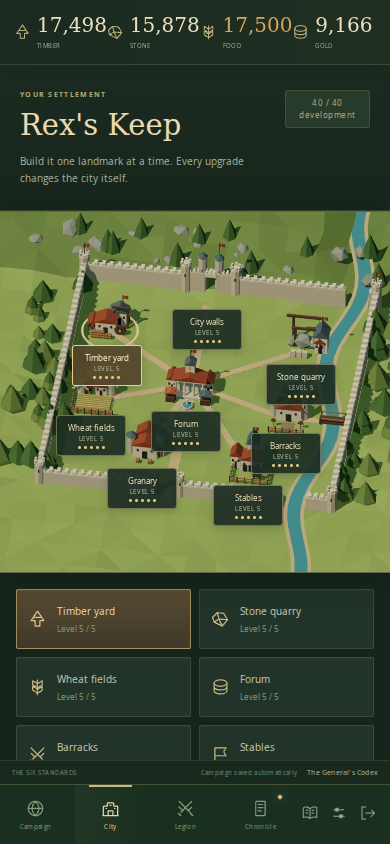
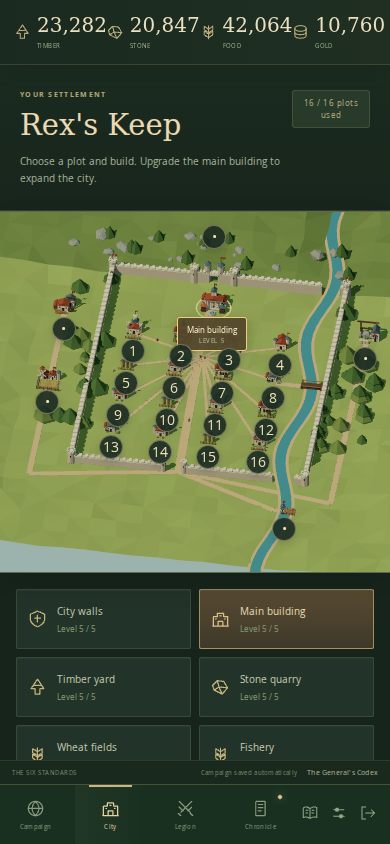
123

diff --git a/tests/city-slots.test.ts b/tests/city-slots.test.ts
@@ -12,4 +12,22 @@ test('plots start empty, duplicates finish independently, and locked plots rejec
 test('fishery is restricted to the river and production changes only at completion',()=>{const f=fixture();assert.throws(()=>queueSlot(f.context,{type:'buildSlot',slot:0,item:'fishery'}),/riverside/);queueSlot(f.context,{type:'buildSlot',slot:16,item:'fishery'});assert.equal(f.world.settlements[0].food_rate,18);finish(f);assert.equal(f.world.settlements[0].food_rate,26);queueSlot(f.context,{type:'upgradeSlot',slot:16});finish(f);assert.equal(f.world.city_slots![0].level,2);assert.equal(f.world.settlements[0].food_rate,34);});
 test('warehouses and granaries stack separately, smithy cap applies, and saves round-trip',()=>{const f=fixture();f.world.city_slots=[{settlement_id:1,slot_index:0,building_type:'warehouse',level:2},{settlement_id:1,slot_index:1,building_type:'warehouse',level:1},{settlement_id:1,slot_index:2,building_type:'granary',level:4},{settlement_id:1,slot_index:3,building_type:'smithy',level:5},{settlement_id:1,slot_index:4,building_type:'smithy',level:5},{settlement_id:1,slot_index:5,building_type:'smithy',level:5}];refreshCityEconomy(f.world,1);assert.equal(f.world.settlements[0].capacity,12500);assert.equal(f.world.settlements[0].food_capacity,15000);assert.equal(armyAttack(f.world,1),1.6);assert.deepEqual(validateSave(f.world),f.world);const broken=structuredClone(f.world);broken.city_slots!.push({...broken.city_slots![0]});assert.throws(()=>validateSave(broken));});
 test('legacy buildings and combined storage survive migration',()=>{const f=fixture();delete f.world.city_slots;f.world.buildings.find(b=>b.building_type==='barracks')!.level=2;f.world.buildings.find(b=>b.building_type==='storehouse')!.level=3;const saved=validateSave(f.world);assert.deepEqual(saved.city_slots!.map(s=>[s.building_type,s.level]),[['barracks',2],['warehouse',3],['granary',3]]);assert.equal(saved.settlements[0].capacity,12500);assert.equal(saved.settlements[0].food_capacity,12500);});
-test('resource sites stay beyond the growing perimeter and fishing has one dedicated river site',async()=>{const {cityLayout}=await import('../src/features/city/rendering/three/layout');for(const level of [0,1,5]){const growth=1+level*.1,plots=cityLayout({market:level},[]);for(const key of ['lumber','quarry','farm','fishery']){const p=plots.find(p=>p.key===key)!;assert.ok(p.x<-8.8*growth||p.x>10.6*growth||p.z>11*growth);}assert.equal(plots.filter(p=>p.key==='fishery').length,1);assert.equal(plots.find(p=>p.key==='fishery')!.x,8.8*growth);}});
+test('growing walls leave clear space around every plot and keep resources outside',async()=>{
+ const {cityLayout,cityFootprint,riverX}=await import('../src/features/city/rendering/three/layout');
+ const {createSlotModel}=await import('../src/features/city/rendering/three/slotModels');
+ const {disposeCityObject}=await import('../src/features/city/rendering/three/modelKit');
+ const {Box3}=await import('three');
+ let previousArea=0;
+ for(let level=0;level<=5;level++){
+  const growth=1+level*.1,footprint=cityFootprint(level),plots=cityLayout({market:level},[]);
+  const area=(footprint.right-footprint.left)*(footprint.front-footprint.back)*growth*growth;assert.ok(area>previousArea);previousArea=area;
+  for(const key of ['lumber','quarry','farm','fishery']){const p=plots.find(p=>p.key===key)!;assert.ok(p.x<footprint.left*growth||p.x>footprint.right*growth||p.z>footprint.front*growth);}
+  assert.equal(plots.find(p=>p.key==='fishery')!.x,riverX(footprint.fishingZ)*growth);
+  for(const plot of plots.filter(p=>p.slot!==undefined&&p.slot<16))for(const type of ['barracks','stables','smithy','warehouse','granary'] as const){
+   const model=createSlotModel(type,5);model.scale.setScalar(.78);model.position.set(plot.x,0,plot.z);const bounds=new Box3().setFromObject(model);
+   assert.ok(bounds.min.x>footprint.left*growth+.6&&bounds.max.x<footprint.right*growth-.6,`${type} at plot ${plot.slot} touches side wall`);
+   assert.ok(bounds.min.z>footprint.back*growth+.6&&bounds.max.z<footprint.front*growth-1.5,`${type} at plot ${plot.slot} touches front wall`);
+   disposeCityObject(model);
+  }
+ }
+});

diff --git a/src/features/city/rendering/three/CityScene.ts b/src/features/city/rendering/three/CityScene.ts
@@ -1,6 +1,6 @@
 import * as THREE from 'three';
 import { type BuildingType } from '../../domain/types';
-import { cityLayout, type CityPlot } from './layout';
+import { cityLayout, cityFootprint, type CityPlot } from './layout';
 import { cityGrowth, type CitySlot, type SlotType } from '../../domain/slots';
 import { createSlotModel } from './slotModels';
 import { createVillagers } from './villagers';
@@ -28,6 +28,7 @@ export class CityScene {
     private selected: string | null = null;
     private plots: CityPlot[] = [];
     private growth = 1;
+    private mainLevel = 0;
     private landscape = createCityLandscape();
     private villagers = createVillagers();
     private lastFrame = 0;
@@ -66,16 +67,19 @@ export class CityScene {
         this.layoutSignature=signature;
         this.plots = cityLayout(levels, slots);
         const growth = cityGrowth(levels.market ?? 0), resized = growth !== this.growth;
-        this.growth = growth; this.landscape.scale.set(growth, 1, growth);
+        this.mainLevel=levels.market??0;
+        this.growth = growth;
+        if(resized) {this.scene.remove(this.landscape);disposeCityObject(this.landscape);this.landscape=createCityLandscape(this.mainLevel);this.scene.add(this.landscape);}
+        this.landscape.scale.set(growth, 1, growth);
         for (const hit of this.pickMeshes) { this.scene.remove(hit); disposeCityObject(hit); }
         this.pickMeshes.length = 0;
         for (const plot of this.plots) {
             const hit = new THREE.Mesh(new THREE.CylinderGeometry(plot.radius, plot.radius, .15, 12), new THREE.MeshBasicMaterial({visible:false}));
             hit.position.set(plot.x,.12,plot.z); hit.userData.building=plot.key; this.pickMeshes.push(hit); this.scene.add(hit);
             const level=visualLevel(plot.level), previous=this.models.get(plot.key);
-            if (!previous || previous.level!==level || previous.type!==plot.type) {
+            if (!previous || previous.level!==level || previous.type!==plot.type || plot.type==='wall' && resized) {
                 if(previous) {this.scene.remove(previous.model);disposeCityObject(previous.model);}
-                const model=plot.slot!==undefined ? createSlotModel(plot.type as SlotType|null,level) : plot.type==='wall' ? createCityWalls(level) : createBuildingModel(plot.type as BuildingType,level);
+                const model=plot.slot!==undefined ? createSlotModel(plot.type as SlotType|null,level) : plot.type==='wall' ? createCityWalls(level,this.mainLevel) : createBuildingModel(plot.type as BuildingType,level);
                 this.scene.add(model); this.models.set(plot.key,{level,type:plot.type,model});
             }
             const model=this.models.get(plot.key)!.model;
@@ -83,7 +87,7 @@ export class CityScene {
             if(plot.type==='wall') model.scale.set(growth,1,growth);
             else if(plot.slot!==undefined) model.scale.setScalar(.78);
         }
-        this.villagers.setPlots(this.plots,growth); this.villagers.animate(performance.now());
+        this.villagers.setPlots(this.plots,growth,this.mainLevel); this.villagers.animate(performance.now());
         this.selected=selected;
         const plot=this.plots.find(p=>p.key===selected);
         this.ring.visible=!!plot;
@@ -95,6 +99,8 @@ export class CityScene {
         const rect = this.canvas.parentElement!.getBoundingClientRect(); this.width = Math.max(1, rect.width); this.height = Math.max(1, rect.height);
         this.renderer.setSize(this.width, this.height, false);
         // Frame the tallest level-five gate as well as the foreground nameplates.
+        const footprint=cityFootprint(this.mainLevel),centerZ=(footprint.back+footprint.fishingZ)*this.growth/2;
+        this.camera.position.set(3.6,22,25+centerZ-.8);this.camera.lookAt(0,0,centerZ);
         const aspect = this.width / this.height, halfHeight = Math.max(12.2, 16 / aspect) * this.growth;
         this.camera.left = -halfHeight * aspect; this.camera.right = halfHeight * aspect;
         this.camera.top = halfHeight; this.camera.bottom = -halfHeight; this.camera.updateProjectionMatrix(); this.render();

diff --git a/src/features/city/rendering/three/landscape.ts b/src/features/city/rendering/three/landscape.ts
@@ -1,18 +1,20 @@
 import * as THREE from 'three';
 import { cityKit } from './modelKit';
-import { CITY_PLOTS } from './layout';
+import { CITY_PLOTS, cityFootprint, cityLayout, riverX } from './layout';
+import { cityGrowth } from '../../domain/slots';
 
 const random = (n: number) => { const value = Math.sin(n * 127.1 + 19.7) * 43758.5453; return value - Math.floor(value); };
-const streamX = (z: number) => 8.8 + Math.sin(z * .44) * .7;
+const streamX = riverX;
 
 /** A small, fixed settlement landscape, independent of the campaign simulation. */
-export function createCityLandscape() {
+export function createCityLandscape(mainLevel = 0) {
+    const footprint=cityFootprint(mainLevel),growth=cityGrowth(mainLevel);
     const group = new THREE.Group(), k = cityKit();
     const { m, box, cylinder, cone, rock } = k;
     const points: number[] = [], colors: number[] = [];
     const grid = (x: number, z: number): [number, number, number] => {
         const px = -24 + x * 2, pz = -23 + z * 2;
-        const town = px > -15 && px < 16 && pz > -9 && pz < 16;
+        const town = px > -15 && px < 16 && pz > -9 && pz < footprint.fishingZ+1;
         const streamBank = Math.abs(px - streamX(pz)) < 2;
         const hill = Math.max(0, -pz - 8) * .13 + Math.max(0, Math.abs(px) - 10) * .07;
         return [px + (random(x * 23 + z * 71) - .5) * .45, town || streamBank ? -.035 : hill + random(x * 83 + z) * .32 - .08, pz];
@@ -34,10 +36,14 @@ export function createCityLandscape() {
     const road = (x1: number, z1: number, x2: number, z2: number, width = .48) => {
         box(Math.hypot(x2 - x1, z2 - z1), .018, width, (x1 + x2) / 2, -.006, (z1 + z2) / 2, m.road, -Math.atan2(z2 - z1, x2 - x1));
     };
-    road(.1,11,6.7,14);road(6.7,14,8.8,14);
-    for(let index=0;index<16;index++) road(0,.1,[-6,-2,2,6.2][index%4],-2+Math.floor(index/4)*4,.26);
-    for (const plot of CITY_PLOTS) { if(Math.abs(plot.x)>11) { road(0,.1,.1,11);road(.1,11,plot.x,13);road(plot.x,13,plot.x,plot.z); } else road(-.3,.1,plot.x,plot.z); }
-    road(-.3, .1, -.3, 12, .7); road(-.4, -6.8, -.4, -12, .65);
+    const front=footprint.front,outside=footprint.outsideRoad,fishingX=streamX(footprint.fishingZ);
+    road(.1,front,fishingX-1,footprint.fishingZ);road(fishingX-1,footprint.fishingZ,fishingX,footprint.fishingZ);
+    for(const plot of cityLayout({market:mainLevel},[]).filter(p=>p.slot!==undefined&&p.slot<16)) road(0,.1,plot.x/growth,plot.z/growth,.26);
+    for (const plot of CITY_PLOTS) {
+        if(Math.abs(plot.x)>11) {road(.1,front,plot.x,outside);road(plot.x,outside,plot.x,plot.z);}
+        else road(-.3,.1,plot.x,plot.z);
+    }
+    road(-.3,.1,.1,front,.7);road(-.4,-6.8,-.4,-12,.65);
     // A restrained stream and bridge at the eastern edge.
     const waterPoints: number[] = [], bankPoints: number[] = [];
     for (let z = -24; z < 26; z++) {

diff --git a/src/features/city/rendering/three/villagers.ts b/src/features/city/rendering/three/villagers.ts
@@ -1,5 +1,5 @@
 import * as THREE from 'three';
-import type { CityPlot } from './layout';
+import { cityFootprint, type CityPlot } from './layout';
 /** Small moving silhouettes; paths follow streets and use the southern gate. */
 export function createVillagers() {
  const group=new THREE.Group(),count=12,bodyShape=new THREE.BoxGeometry(.16,.25,.13),headShape=new THREE.IcosahedronGeometry(.09,0),legShape=new THREE.BoxGeometry(.055,.19,.055);
@@ -10,7 +10,7 @@ export function createVillagers() {
  for(let i=0;i<count;i++)body.setColorAt(i,new THREE.Color([0x547442,0x995536,0x5c7274,0xb8a477][i%4]));
  for(const mesh of [body,head,legs,parcels]) {mesh.frustumCulled=false;group.add(mesh);}
  let paths:THREE.Vector3[][]=[];const dummy=new THREE.Object3D();
- return {group,setPlots(plots:CityPlot[],growth:number){paths=plots.filter(p=>p.type!=='wall').map(p=>(Math.abs(p.x)>11*growth||p.slot===16)?[new THREE.Vector3(0,0,.1),new THREE.Vector3(.1*growth,0,11*growth),new THREE.Vector3(p.x,0,13*growth),new THREE.Vector3(p.x,0,p.z)]:[new THREE.Vector3(0,0,.1),new THREE.Vector3(p.x,0,p.z)]);},animate(time:number){
+ return {group,setPlots(plots:CityPlot[],growth:number,mainLevel:number){const footprint=cityFootprint(mainLevel);paths=plots.filter(p=>p.type!=='wall').map(p=>(Math.abs(p.x)>footprint.front*growth||p.slot===16)?[new THREE.Vector3(0,0,.1),new THREE.Vector3(.1*growth,0,footprint.front*growth),new THREE.Vector3(p.x,0,footprint.outsideRoad*growth),new THREE.Vector3(p.x,0,p.z)]:[new THREE.Vector3(0,0,.1),new THREE.Vector3(p.x,0,p.z)]);},animate(time:number){
   if(!paths.length)return;
   for(let i=0;i<count;i++){
    const path=paths[i%paths.length],lengths=path.slice(1).map((p,j)=>p.distanceTo(path[j])),total=lengths.reduce((a,b)=>a+b,0);

diff --git a/src/features/city/rendering/three/cityWalls.ts b/src/features/city/rendering/three/cityWalls.ts
@@ -1,12 +1,15 @@
 import { createBuildingModel, visualLevel } from './buildingModels';
 import { cityKit } from './modelKit';
+import { cityFootprint, riverX } from './layout';
 
 /** Enclose the city; roads and the river retain real openings through the walls. */
-export function createCityWalls(value: number) {
+export function createCityWalls(value: number, mainLevel = 0) {
     const level = visualLevel(value), k = cityKit();
     const { m, box, cone, tower } = k;
     // Coordinates are relative to the northern gate at (-.4, -9).
-    const left = -8.4, right = 11, back = 0, front = 20;
+    const footprint=cityFootprint(mainLevel);
+    const left=footprint.left+.4,right=footprint.right+.4,back=0,front=footprint.front+9;
+    const river=riverX(footprint.front)+.4;
     function section(x1: number, z1: number, x2: number, z2: number, foreground = false) {
         const length = Math.hypot(x2 - x1, z2 - z1), angle = -Math.atan2(z2 - z1, x2 - x1);
         const height = foreground ? .36 + level * .14 : .4 + level * .23;
@@ -36,8 +39,8 @@ export function createCityWalls(value: number) {
     section(left, back, left, front);
     section(right, back, right, front);
     section(left, front, -.65, front, true);
-    section(.85, front, 7.8, front, true);
-    section(9.3, front, right, front, true); // Southern water passage.
+    section(.85, front, river-.9, front, true);
+    section(river+.9, front, right, front, true); // Southern water passage.
     if (level >= 2) for (const x of [left, right]) for (const z of [back, front]) {
         const height = z === front ? .95 + level * .16 : 1.05 + level * .24;
         if (level === 2) {

diff --git a/src/features/city/rendering/three/layout.ts b/src/features/city/rendering/three/layout.ts
@@ -8,11 +8,19 @@ export const CITY_PLOTS = [
  {type:'quarry' as const,x:13,z:-4,radius:1.9},
  {type:'farm' as const,x:-12,z:5,radius:2},
 ];
+export const riverX = (z:number) => 8.8 + Math.sin(z * .44) * .7;
+/** Bounds in landscape coordinates; reserve an open street beyond the last plot row. */
+export function cityFootprint(main:number) {
+ const level=Math.max(0,Math.min(5,main)),rows=Math.ceil(slotCount(level)/4);
+ const lastRow=-2+(rows-1)*4;
+ const front=Math.max(11,lastRow+3.8)+level*.1;
+ return {left:-8.8,right:10.6,back:-9,front,outsideRoad:front+2,fishingZ:front+3.5};
+}
 export function cityLayout(levels:Record<string,number>, slots:CitySlot[]):CityPlot[] {
- const growth=cityGrowth(levels.market??0);
+ const growth=cityGrowth(levels.market??0),footprint=cityFootprint(levels.market??0);
  const fixed:CityPlot[]=CITY_PLOTS.map(p=>({...p,key:p.type,x:p.x*growth,z:p.z*growth,level:levels[p.type]??0}));
  const fishing=slots.find(s=>s.slot_index===16);
- fixed.push({key:'fishery',type:'fishery',slot:16,level:fishing?.level??0,x:8.8*growth,z:14*growth,radius:1.6});
+ fixed.push({key:'fishery',type:'fishery',slot:16,level:fishing?.level??0,x:riverX(footprint.fishingZ)*growth,z:footprint.fishingZ*growth,radius:1.6});
  return [...fixed,...Array.from({length:slotCount(levels.market??0)},(_,index)=>{
   const slot=slots.find(s=>s.slot_index===index);
   return {key:`slot:${index}`,slot:index,type:slot?.building_type??null,level:slot?.level??0,x:[-6,-2,2,6.2][index%4]*growth,z:(-2+Math.floor(index/4)*4)*growth,radius:1.5};
